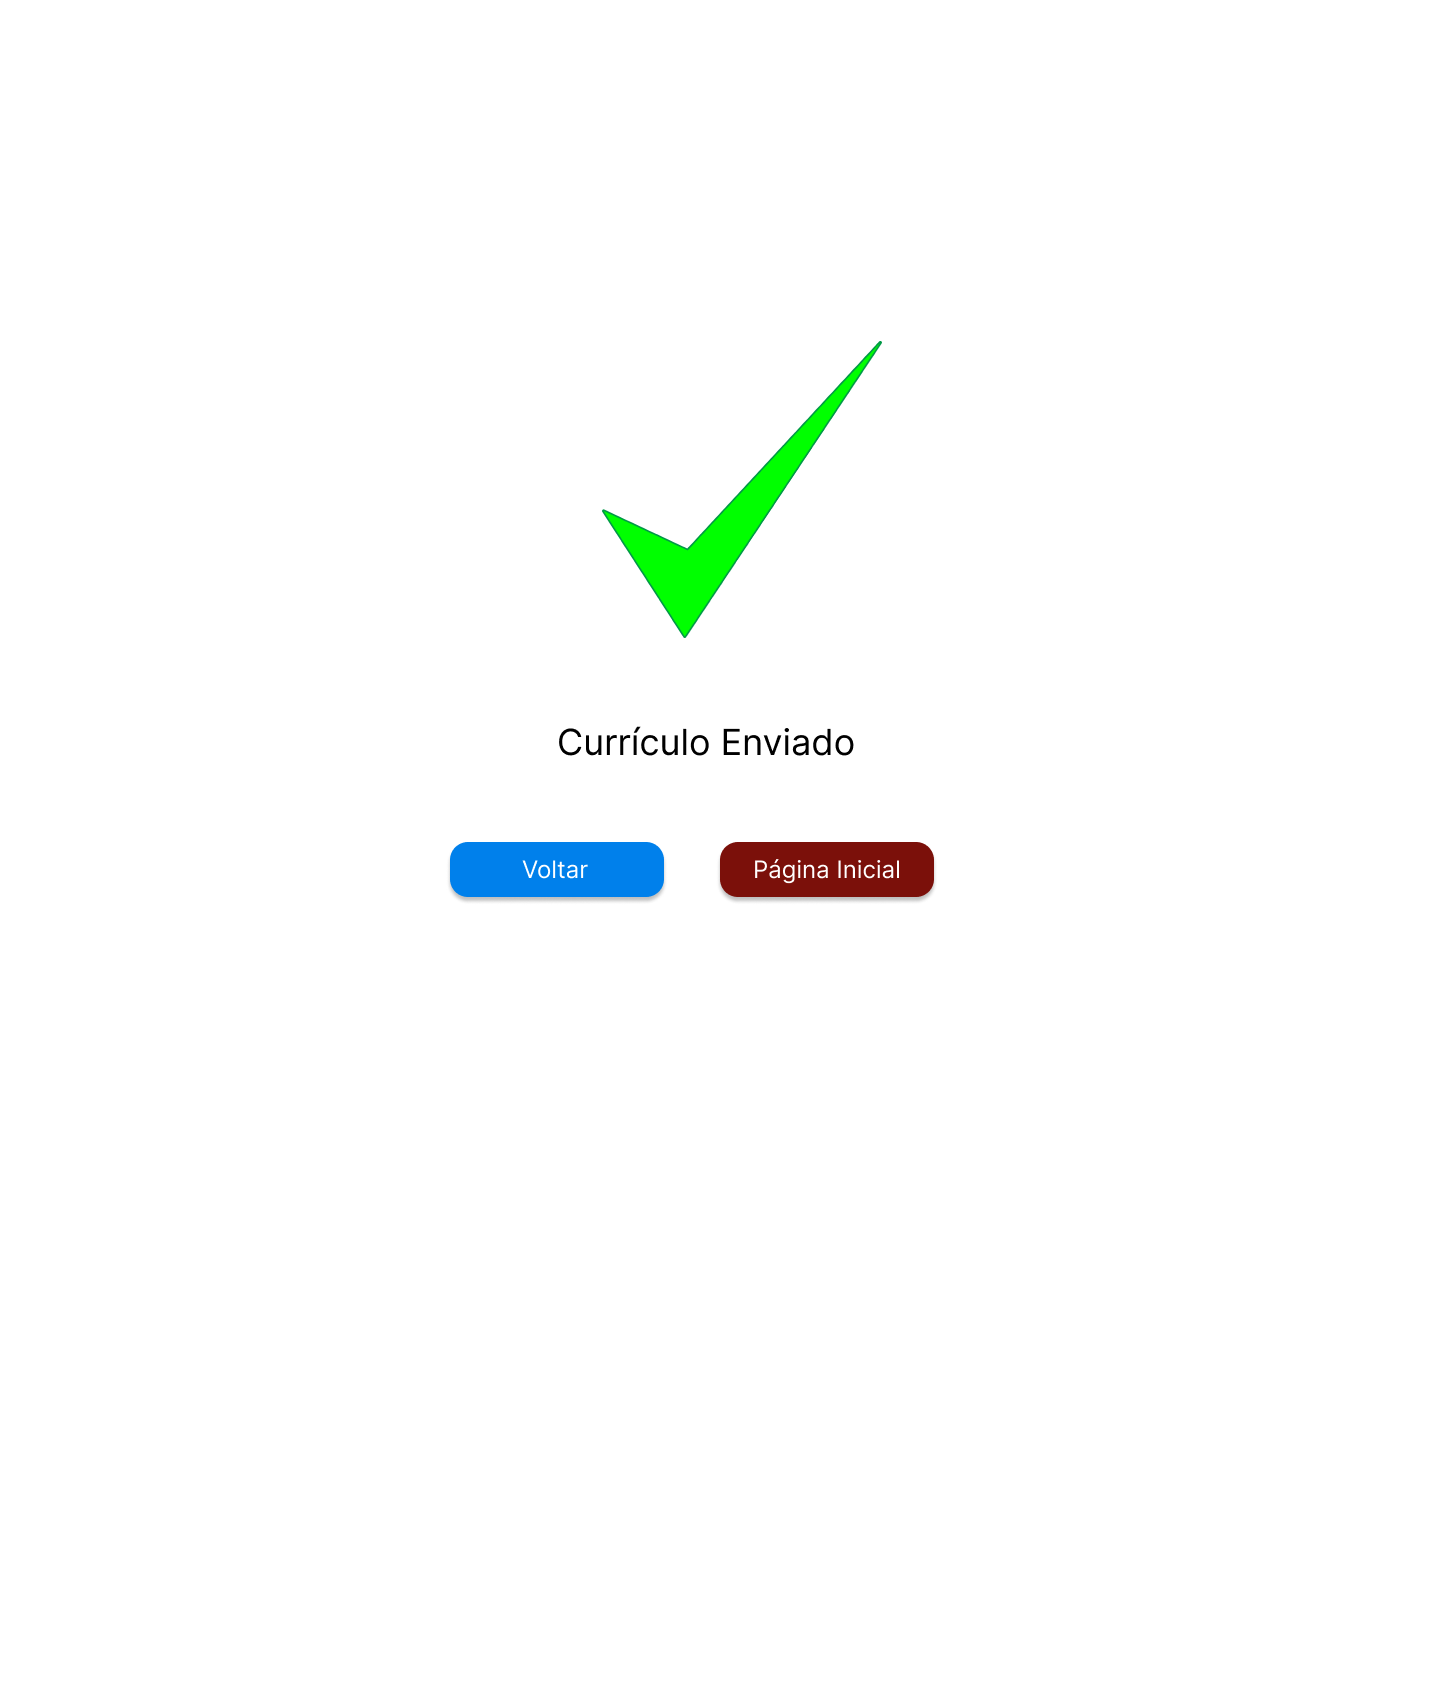
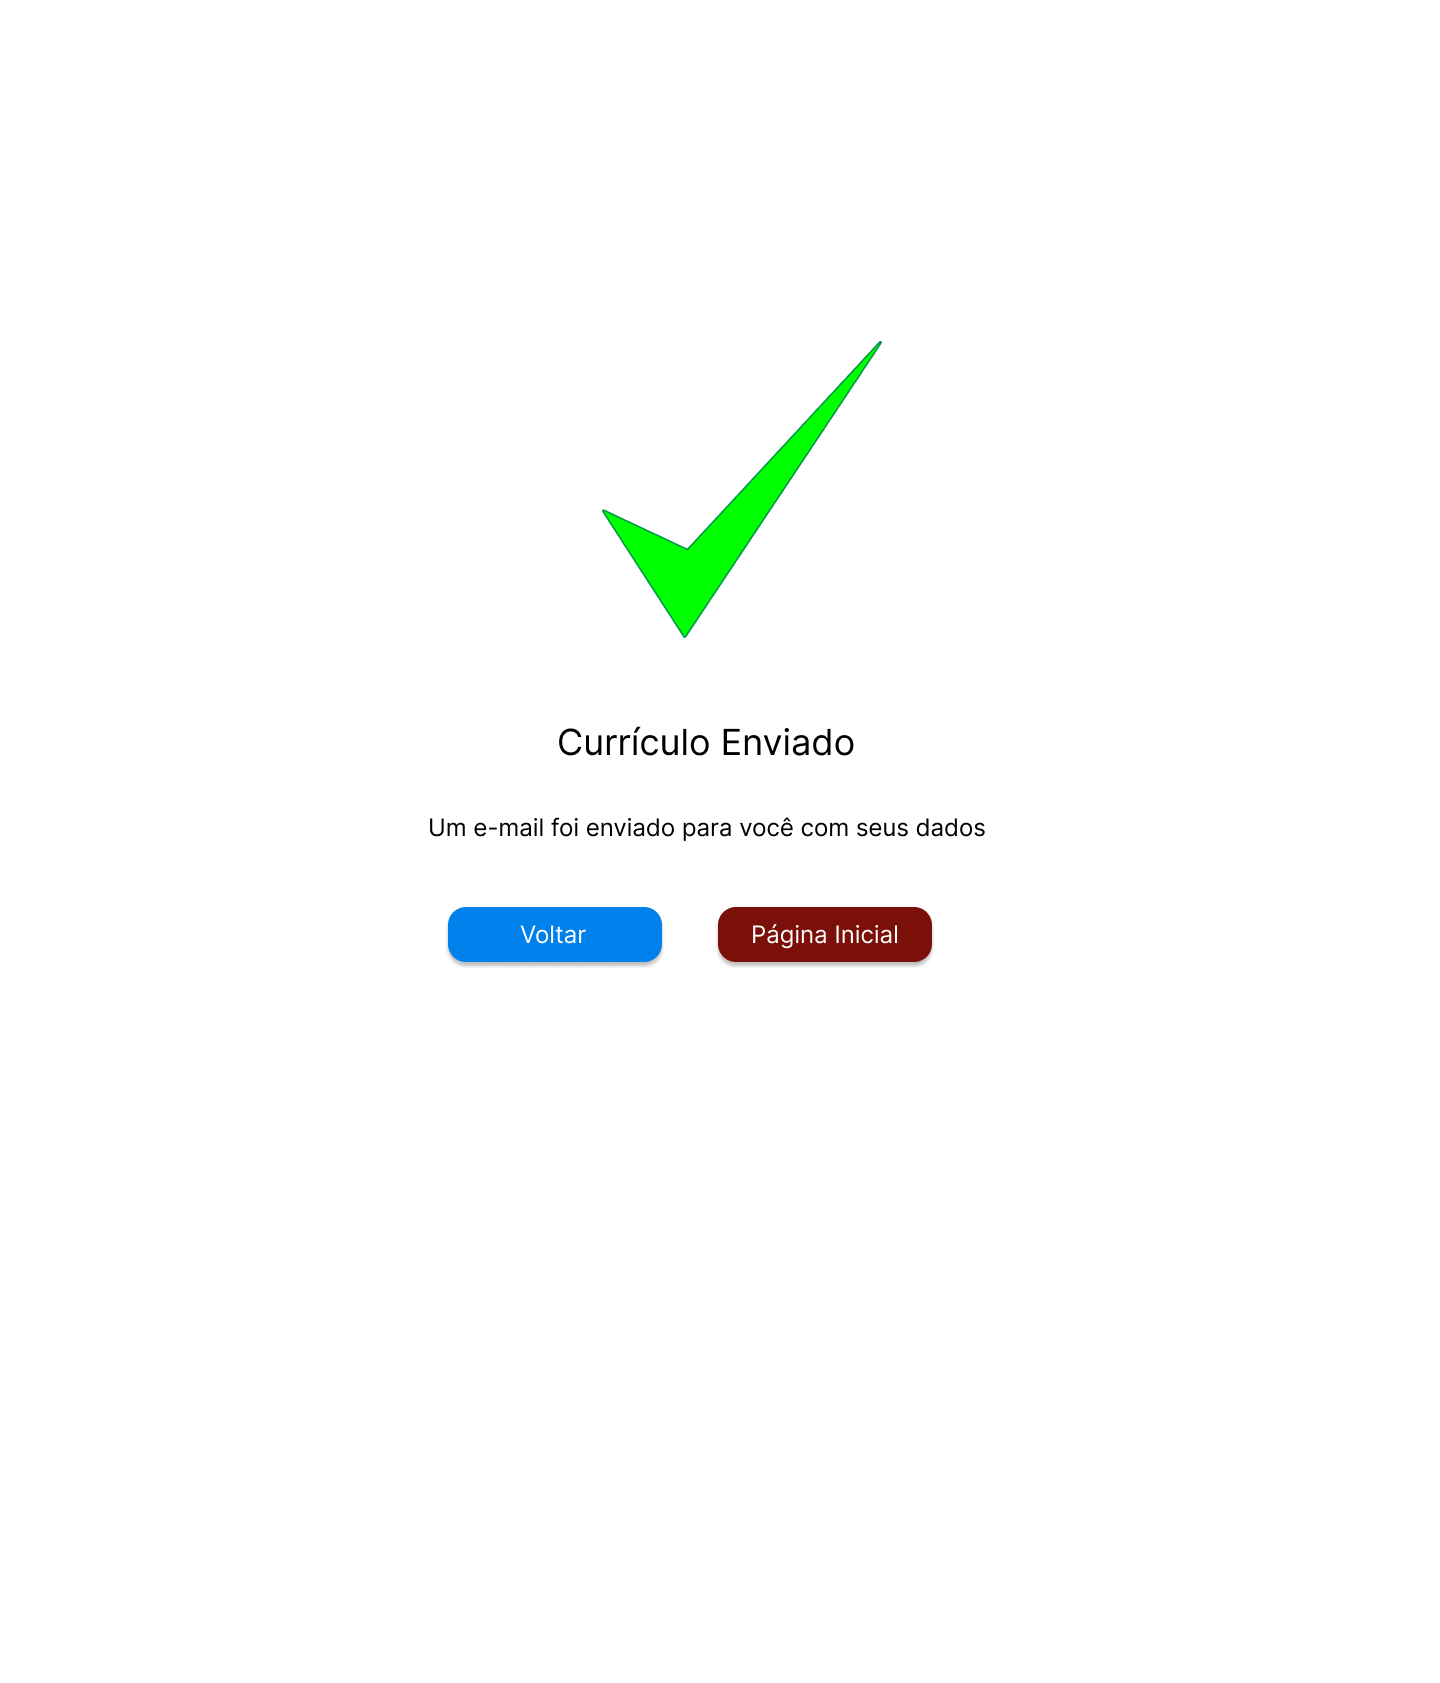
update

Changed region(s): [[0.5, 0.4944, 0.6562, 0.587], [0.3125, 0.4944, 0.4688, 0.587]]

diff --git a/curriculo/templates/enviar-curriculo.html b/curriculo/templates/enviar-curriculo.html
@@ -6,6 +6,7 @@
     <meta name="viewport" content="width=device-width, initial-scale=1.0">
     <title>Enviar Currículo</title>
     <link rel="stylesheet" href="{% static 'css/projeto.css' %}">
+    <link rel="shortcut icon" href="{% static 'images/logo.jpg' %}" />
     <script src="{% static 'js/projeto.js' %}" defer></script>
 </head>
 <body>
@@ -27,13 +28,14 @@
                 <input type="text" name="cargo_desejado" id="cargo_desejado" placeholder="Digite o cargo que deseja" required maxlength="100"><br>
                 <label for="escolaridade">Escolaridade</label><br>
                 <select name="escolaridade" id="escolaridade" required>
-                    <option value="" disabled selected>Escolha seu nível de escolaridade</option>
+                    <option value="" disabled selected>Escolha seu nível escolar</option>
                     <option value="Ensino Médio Incompleto">Ensino Médio Incompleto</option>
                     <option value="Ensino Médio Completo">Ensino Médio Completo</option>
                     <option value="Ensino Superior Incompleto">Ensino Superior Incompleto</option>
                     <option value="Ensino Superior Completo">Ensino Superior Completo</option>
                 </select><br>
                 <label for="observacoes">Observações</label><br>
+                <span id="contador-char">300 caracteres restantes</span><br>
                 <textarea name="observacoes" id="observacoes" placeholder="Digite alguma observação caso tenha" maxlength="300"></textarea><br>
                 <label for="arquivo">Arquivo</label><br>
                 <span>O arquivo deve ter, no máximo, 1MB de tamanho, além de ser do formato .doc, .docx ou .pdf</span><br>

diff --git a/curriculo/static/js/projeto.js b/curriculo/static/js/projeto.js
@@ -14,8 +14,8 @@ if (window.location.pathname === '/curriculo/enviar-curriculo') {
             const size = file.size;
 
             // Limita o nome do arquivo a 100 caracteres
-            if (fileName.length > 100) {
-                button.textContent = fileName.substring(0, 100) + '...';
+            if (fileName.length > 50) {
+                button.textContent = fileName.substring(0, 50) + '...';
             } else {
                 button.textContent = fileName;
             }
@@ -55,6 +55,16 @@ if (window.location.pathname === '/curriculo/enviar-curriculo') {
         this.style.height = 'auto'; // Reseta a altura para calcular a altura correta
         this.style.height = (this.scrollHeight) + 'px'; // Ajusta a altura conforme o conteúdo
     });
+
+    // caracteres restantes
+    const observacoes = document.getElementById('observacoes');
+        const charCounter = document.getElementById('contador-char');
+        const maxLength = 300;
+
+        observacoes.addEventListener('input', () => {
+            const remaining = maxLength - observacoes.value.length;
+            charCounter.textContent = `${remaining} caracteres restantes`;
+        });
 
     // Função para verificar se todos os campos obrigatórios estão preenchidos
     function toggleSubmitButton() {

diff --git a/curriculo/templates/erro-curriculo.html b/curriculo/templates/erro-curriculo.html
@@ -4,16 +4,15 @@
 <head>
     <meta charset="UTF-8">
     <meta name="viewport" content="width=device-width, initial-scale=1.0">
-    <title>Currículo Enviado</title>
+    <title>Erro</title>
     <link rel="stylesheet" href="{% static 'css/projeto.css' %}">
     <link rel="shortcut icon" href="{% static 'images/logo.jpg' %}" />
 </head>
 <body>
     <header></header>
-    <main class="enviado">
-        <figure><img src="{% static 'images/check.png' %}" alt="Check"></figure>
-        <h1>Currículo Enviado</h1>
-        <span>Um e-mail foi enviado para você com seus dados</span>
+    <main class="erro">
+        <figure><img src="{% static 'images/erro.png' %}" alt="Erro"></figure>
+        <h1>Houve um erro ao enviar o currículo</h1>
         <div class="botoes">
             <a href="{% url 'enviar-curriculo' %}"><button id="botao-voltar">Voltar</button></a>
             <a href="https://gti.saude.rn.gov.br/" target="_blank"><button id="botao-home">Página Inicial</button></a>

diff --git a/curriculo/static/css/projeto.css b/curriculo/static/css/projeto.css
@@ -108,12 +108,12 @@ p{
     margin-top: 5em;
 }
 
-main.enviado{
+main.enviado, main.erro{
     display: flex;
     justify-content: center;
     align-items: center;
     flex-direction: column;
-    gap: 5em;
+    gap: 4em;
     margin-top: 10em;
     margin-bottom: 10em;
 }
@@ -134,4 +134,39 @@ main.enviado{
     cursor: pointer;
     font-size: 15px;
     box-shadow: 0 5px 8px rgba(0, 0, 0, 0.3);
+}
+
+@media screen and (max-width: 468px) {
+    
+    img{
+        width: 50%;
+    }
+    
+    form{
+        width: 70%;
+        font-size: 20px;
+        padding: 2em;
+        text-align: center;
+        border-radius: 15px;
+    }
+
+    form input, form select, form textarea{
+        width: 16em;
+    }
+
+    form select{
+        width: 18em;
+    }
+    
+    form span{
+        font-size: 11px;
+    }
+
+    #botao-voltar{
+        width: 7em;
+    }
+    
+    #botao-home{
+        width: 8em;
+    }
 }

diff --git a/curriculo/views/CandidatoView.py b/curriculo/views/CandidatoView.py
@@ -2,6 +2,7 @@ from curriculo.models import Candidato
 from django.shortcuts import render, redirect
 from django.core.files.storage import FileSystemStorage
 from django.utils import timezone
+from django.core.mail import EmailMessage
 
 def pegar_ip(request):
     x_forwarded_for = request.META.get('HTTP_X_FORWARDED_FOR')
@@ -22,28 +23,63 @@ def curriculo_enviado(request, id=None):
         cargo_desejado = request.POST.get("cargo_desejado")
         escolaridade = request.POST.get("escolaridade")
         observacoes = request.POST.get("observacoes")
-        arquivo = request.POST.get("arquivo")
+        arquivo = request.FILES.get("arquivo")
+        subject = 'Recebemos seu currículo!'
+        message = f"""
+        Olá, {nome}!
+
+        Obrigado por enviar seu currículo. Aqui estão os dados recebidos:
+        Nome: {nome}
+        E-mail: {email}
+        Telefone: {telefone}
+        Cargo Desejado: {cargo_desejado}
+        Escolaridade: {escolaridade}
+        Observações: {observacoes}
+
+        Em breve, entraremos em contato.
+
+        Atenciosamente,
+        UGTSIC - SESAP/RN.
+        """
+        from_email = 'noreply@gmail.com'
+        recipient_list = [email]
+
         try:
-            obj_candidato = Candidato()
-            obj_candidato.nome = nome
-            obj_candidato.email = email
-            obj_candidato.telefone = telefone
-            obj_candidato.cargo_desejado = cargo_desejado
-            obj_candidato.escolaridade = escolaridade
-            obj_candidato.observacoes = observacoes
-            obj_candidato.ip = pegar_ip(request)
-            obj_candidato.data_hora_envio = timezone.now()
-            if request.FILES is not None:
-                num_files = len(request.FILES.getlist('arquivo'))
-                if num_files > 0:
-                    arquivo = request.FILES['arquivo']
-                    fs = FileSystemStorage()
-                    nome_arquivo = fs.save(arquivo.name, arquivo)
-                    if nome_arquivo is not None and nome_arquivo != "":
-                        obj_candidato.arquivo = nome_arquivo
+            email_message = EmailMessage(subject, message, from_email, recipient_list)
+
+            if arquivo:
+                email_message.attach(arquivo.name, arquivo.read(), arquivo.content_type)
+
+            email_message.send()
+
+            obj_candidato = Candidato(
+                nome=nome,
+                email=email,
+                telefone=telefone,
+                cargo_desejado=cargo_desejado,
+                escolaridade=escolaridade,
+                observacoes=observacoes,
+                ip=pegar_ip(request),
+                data_hora_envio=timezone.now(),
+                arquivo=arquivo.name if arquivo else None
+            )
+
+            if arquivo:
+                fs = FileSystemStorage()
+                nome_arquivo = fs.save(arquivo.name, arquivo)
+                obj_candidato.arquivo = nome_arquivo
+
             obj_candidato.save()
+
             print(f"Candidato {nome} inserido com sucesso!")
+
         except Exception as e:
-            print(f"Erro ao inserir o candidato {e}")
+            print(f"Erro ao processar o envio do candidato: {e}")
+            return render(request, "erro-curriculo.html", status=200)
+
         return redirect("curriculo-enviado")
-    return render(request, template_name="curriculo-enviado.html",  status=200)
+
+    return render(request, "curriculo-enviado.html", status=200)
+
+def erro_curriculo(request):
+    return render(request, "erro-curriculo.html", status=200)

diff --git a/curriculo/urls/CandidatoUrls.py b/curriculo/urls/CandidatoUrls.py
@@ -2,5 +2,6 @@ from django.urls import path
 from curriculo.views.CandidatoView import *
 urlpatterns = [
     path("enviar-curriculo", inserir_curriculo, name='enviar-curriculo'),
-    path("curriculo-enviado", curriculo_enviado, name="curriculo-enviado")
+    path("curriculo-enviado", curriculo_enviado, name="curriculo-enviado"),
+    path("erro-curriculo", erro_curriculo, name='erro-curriculo'),
 ]

diff --git a/curriculo_admin/settings/settings.py b/curriculo_admin/settings/settings.py
@@ -125,3 +125,8 @@ MEDIA_ROOT=os.path.join(BASE_DIR, 'media/curriculos')
 # https://docs.djangoproject.com/en/4.2/ref/settings/#default-auto-field
 
 DEFAULT_AUTO_FIELD = 'django.db.models.BigAutoField'
+
+EMAIL_BACKEND = 'django.core.mail.backends.console.EmailBackend'
+EMAIL_HOST = 'smtp.gmail.com'
+EMAIL_PORT = 587
+EMAIL_USE_TLS = True
